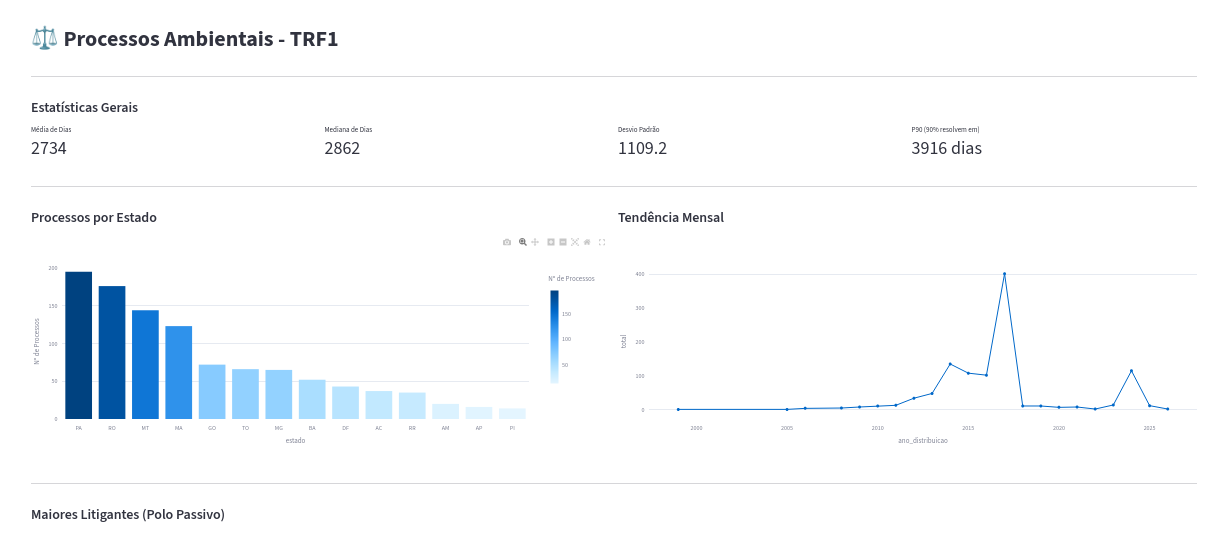
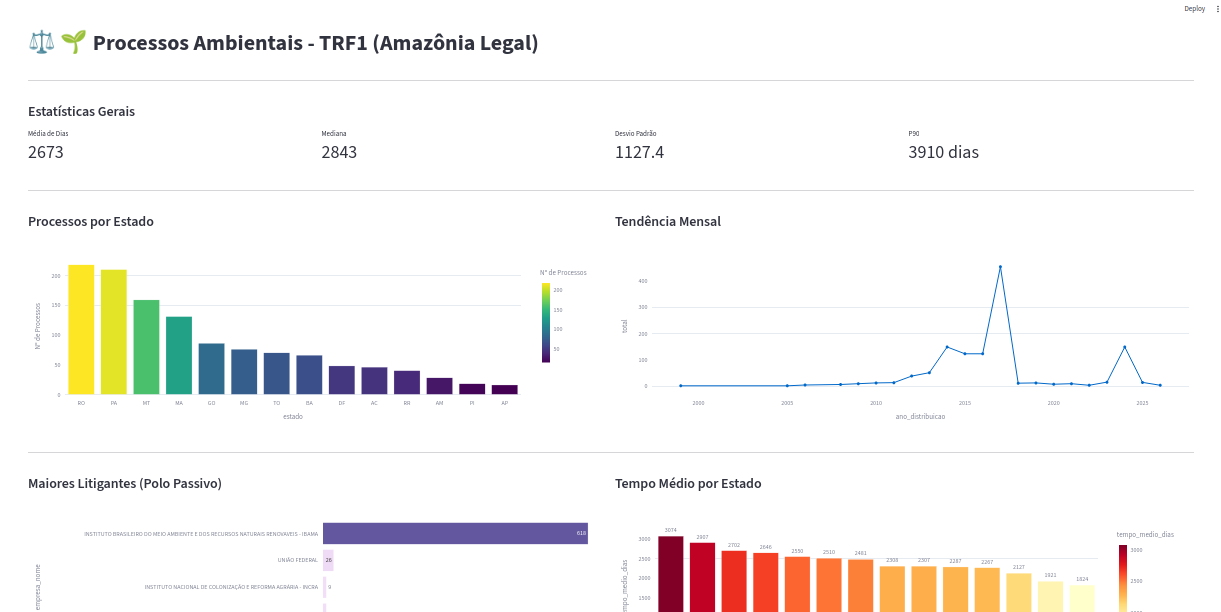
mudanca print

diff --git a/README.md b/README.md
@@ -1,6 +1,6 @@
-📚 Data Analytics com ETL
+# 📚 Data Analytics com ETL
 
-Projeto para exemplificar o trabalho de engenharia e análise de dados, utilizando extração de indicadores de processos ambientais em trâmite no TRF-1.A base de dados foi reduzida da original (que inclui mais de 80 mil processos) para fins didáticos, pois o foco do repositório é demonstrar como trabalhar com os dados extraídos da API DataJud e coletados em detalhes, pelo número do processo, por meio de webscraping no portal PJe. 
+Projeto para exemplificar o trabalho de engenharia e análise de dados, utilizando extração de indicadores de processos ambientais em trâmite no TRF-1 (Amazônia Legal). A base de dados foi reduzida da original (que inclui mais de 80 mil processos) para fins didáticos, pois o foco do repositório é demonstrar como trabalhar com os dados extraídos da API DataJud e coletados com mais detalhes pelo número do processo, por meio de webscraping no portal PJe. 
 
 Neste projeto, transforma-se dados brutos (Excel) em uma camada analítica performática utilizando DuckDB e Parquet.
 
@@ -38,7 +38,7 @@ Neste projeto, transforma-se dados brutos (Excel) em uma camada analítica perfo
 
 Escolhi o DuckDB por sua capacidade de executar consultas SQL complexas diretamente em arquivos Parquet, sendo ideal para cenários de Data Analytics onde a performance de leitura e agregação é prioridade, sem a necessidade de um servidor de banco de dados tradicional.
 
-## 📊 Visualização dos Dados (Dashboard)
+📊 Visualização dos Dados (Dashboard)
 
 Uma demonstração do dashboard interativo desenvolvido com Streamlit:
 
